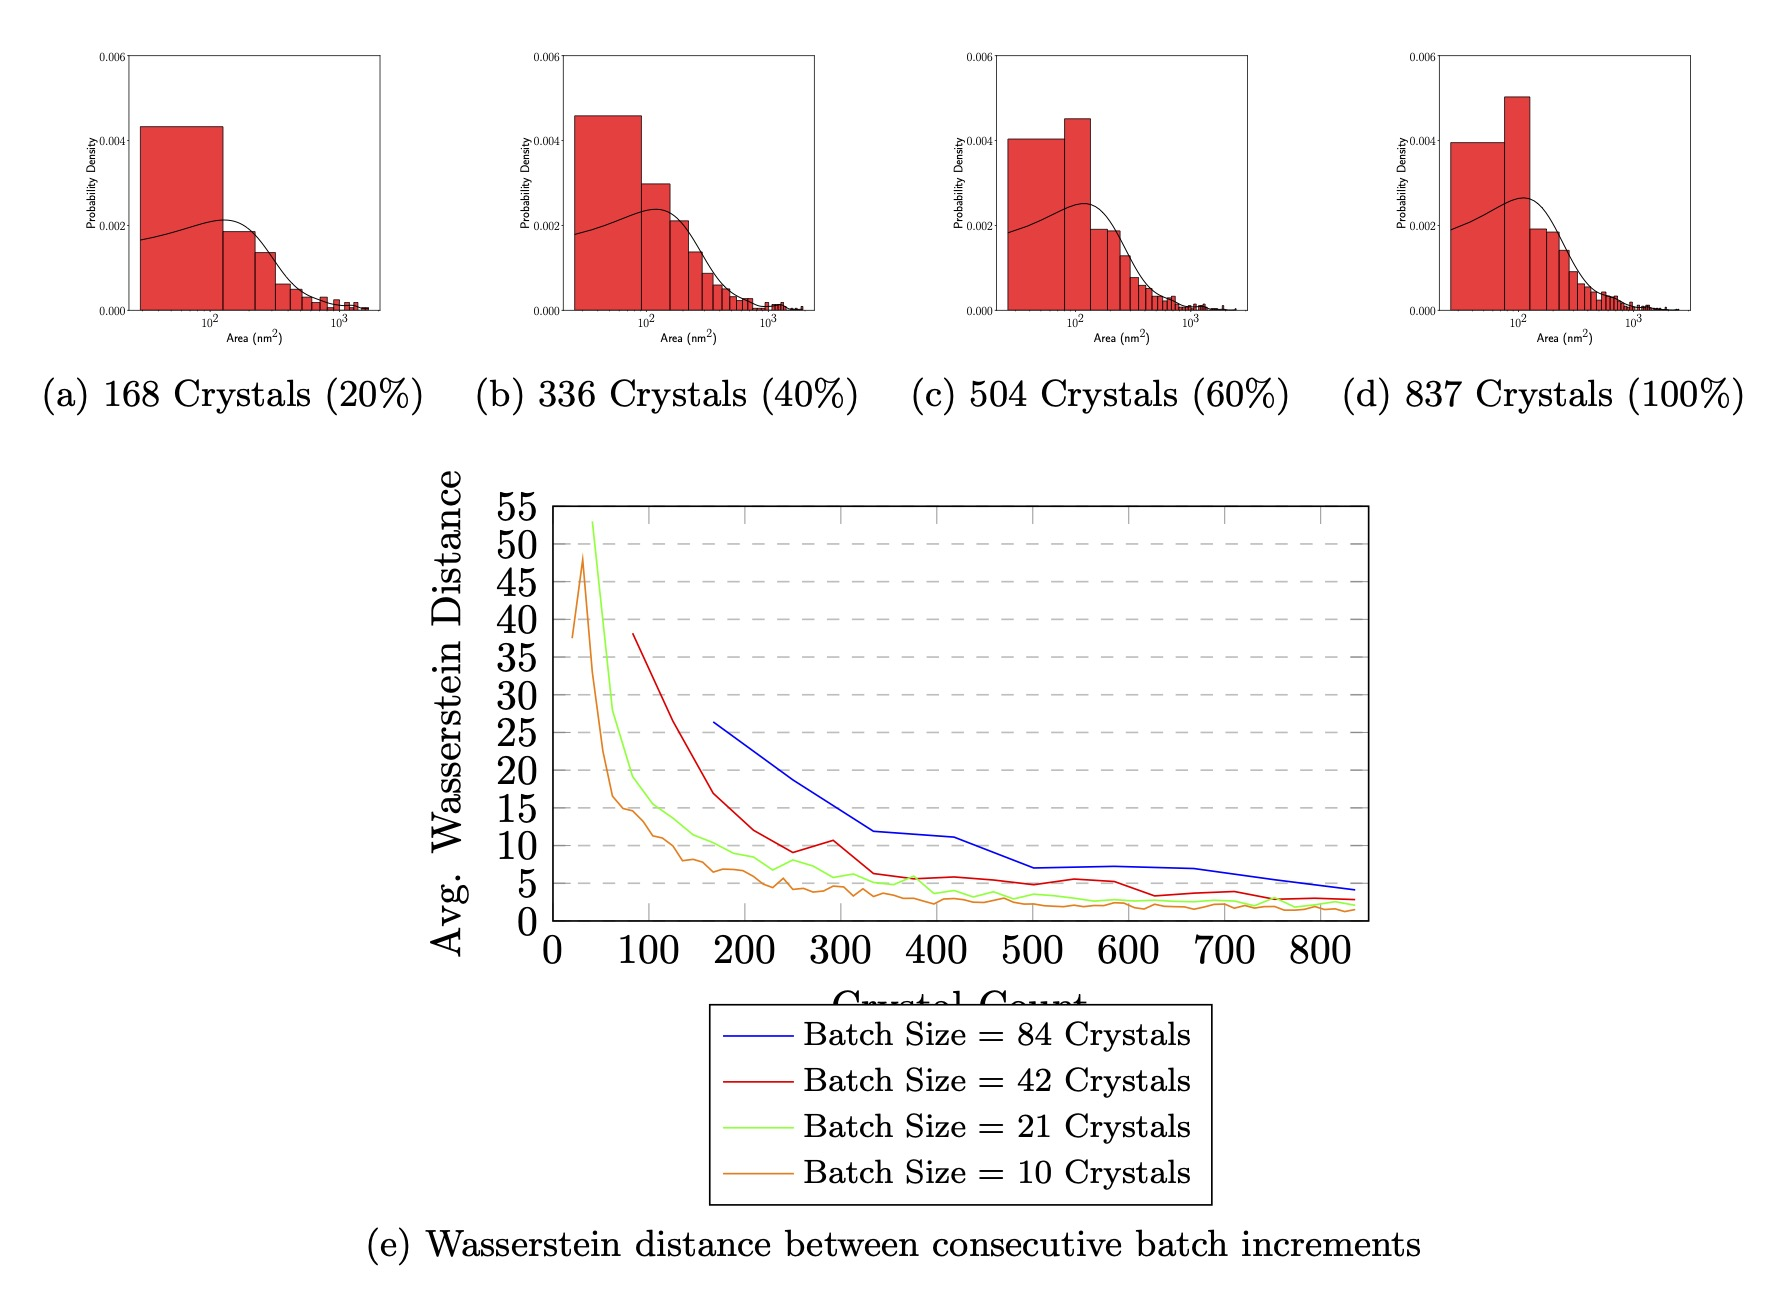
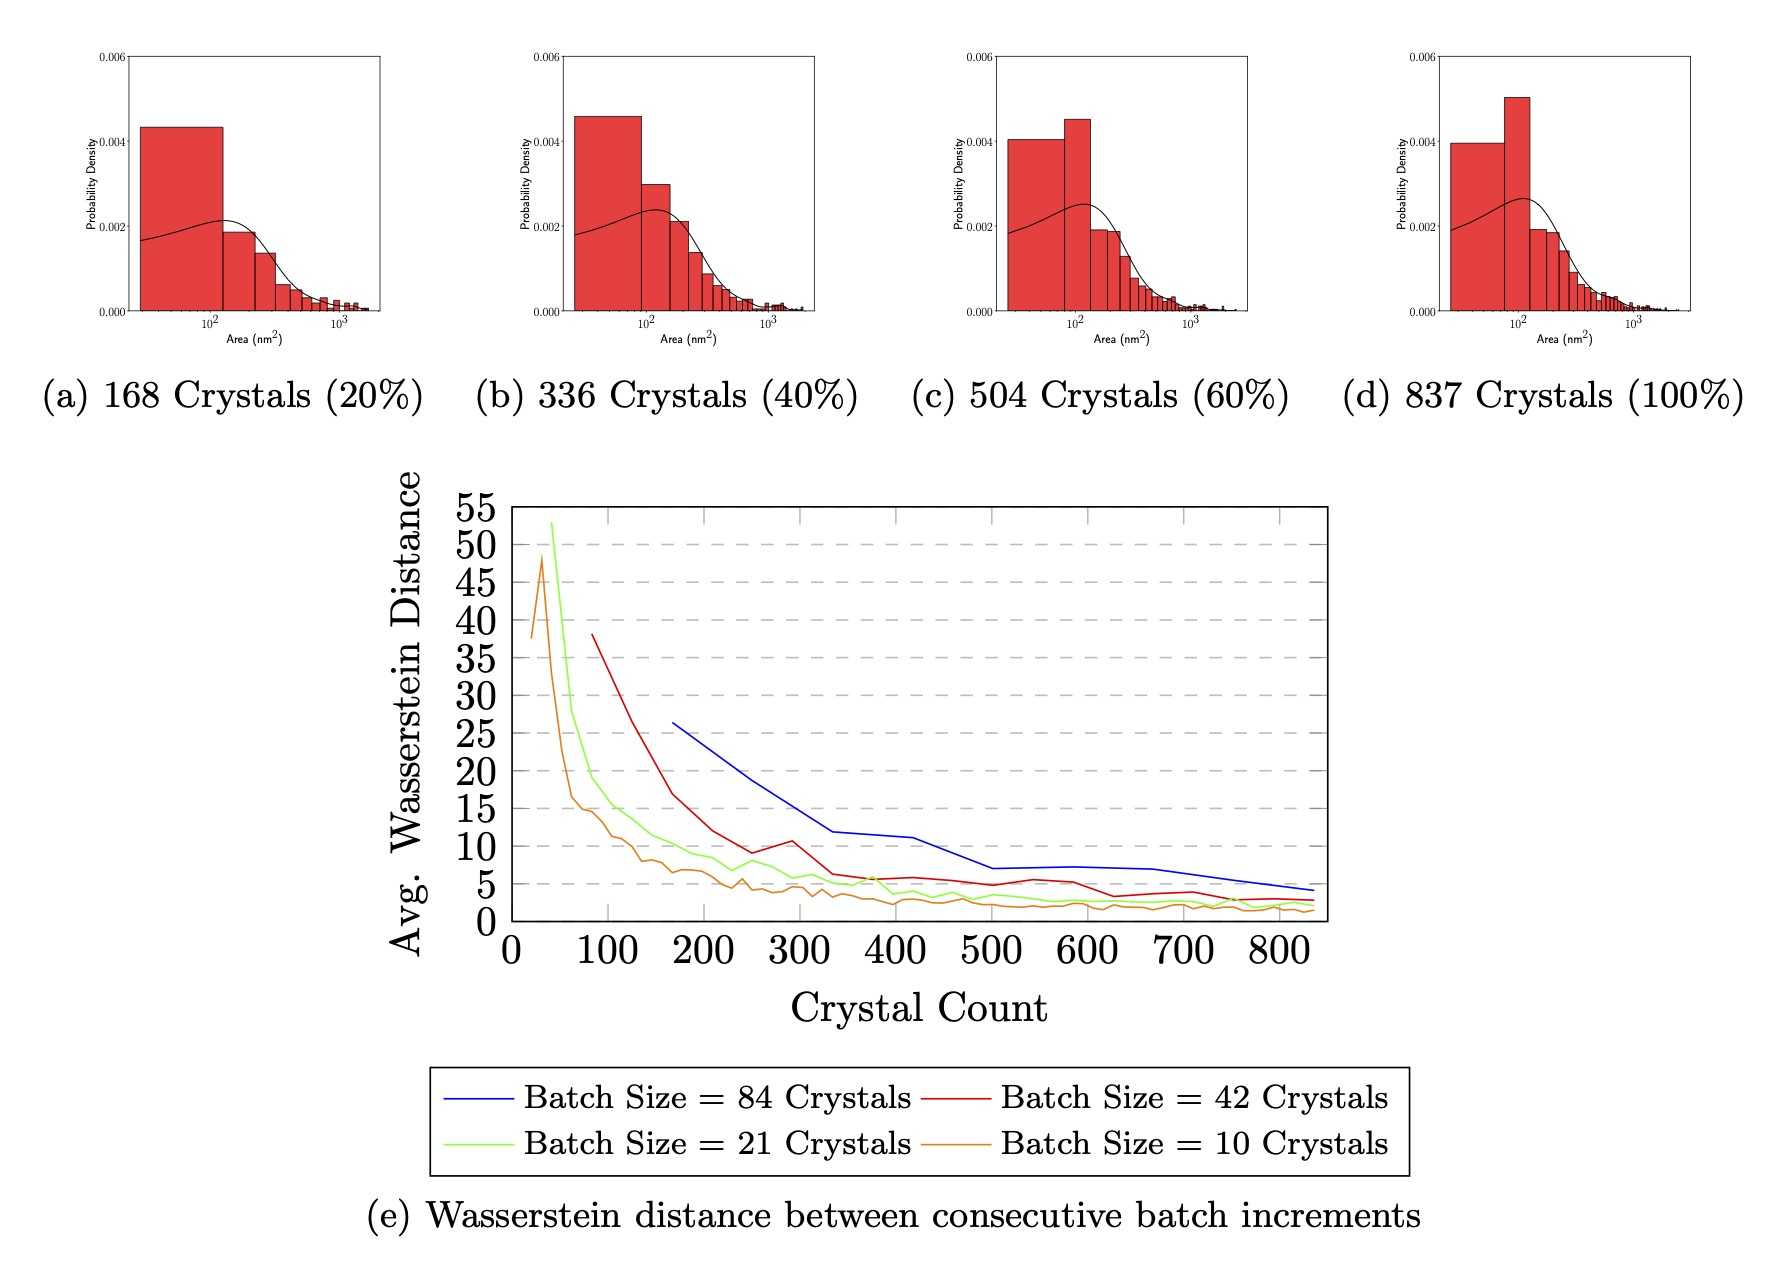
Update figure captions in index.html for clarity and accuracy; replace fig14_dataSuff.jpg with an updated version

Changed region(s): [[0.2154, 0.3741, 0.8002, 0.9665], [0.277, 0.0935, 0.9849, 0.3429], [0.0308, 0.0935, 0.2462, 0.3118]]

diff --git a/index.html b/index.html
@@ -495,28 +495,28 @@
       <div class="figure-slide">
         <img src="./static/images/fig1_overviewFramework.jpg" alt="Framework Overview">
         <p class="figure-caption">
-          <strong>Figure 1:</strong> Illustration of the proposed voxel-based, octree-enabled FEM framework for real-time 3D-printing simulations. Starting from a standard G-code model (left), the part is converted into a voxel representation where each newly deposited voxel (green) expands the active region. An octree mesh (center) then refines or coarsens elements based on print progression, enabling efficient assembly and solution of the evolving thermal problem. Finally, the simulation iterates this deposition-and-solve process until the full 3D object (right) is printed.
+          <strong>Figure 1:</strong> Schematic overview of the GRATEv2 computational framework. The overall computational framework of GRATEv2.
         </p>
       </div>
 
       <div class="figure-slide">
-        <img src="./static/images/fig1_BOpt_details.jpg" alt="Voxel Printing Order">
+        <img src="./static/images/fig1_BOpt_details.jpg" alt="Bayesian Optimization Details">
         <p class="figure-caption">
-          <strong>Figure 2:</strong> Voxel-by-voxel printing order for the cube and Stanford bunny geometry. The figure shows the 3D printing of the voxel geometry. The red voxels are the ones that have been printed recently, gray voxels are the ones that have been printed previously, and the white voxels are the ones that are yet to be printed. Orange arrow shows the contour print direction and the yellow arrow shows the infill print direction.
+          <strong>Figure 2:</strong> The detailed Bayesian Optimization (BO) component used for parameter tuning. The BO framework iteratively suggests parameter sets based on previous evaluations, optimizing the performance of the GRATEv2 image analysis pipeline. This process minimizes manual intervention and enhances the robustness of the analysis across diverse datasets.
         </p>
       </div>
 
       <div class="figure-slide">
-        <img src="./static/images/fig3_IP_algo.jpg" alt="Voxel Mesh Slices">
+        <img src="./static/images/fig3_IP_algo.jpg" alt="Algorithm Flowchart with Parameters">
         <p class="figure-caption">
-          <strong>Figure 3:</strong> Voxel-based geometry, octree mesh, and 2D slices at three stages of the build for both a cube (left) and the Stanford Bunny (right). From top to bottom, each row represents an increasingly complete print. The left column in each block shows the voxel geometry at the given time, the center column shows the corresponding octree mesh (with inactive elements in wireframe), and the right column presents a mesh slice for clarity. This progression illustrates how the geometric representation, meshing strategy, and cross-sectional patterns evolve as additional layers are deposited.
+          <strong>Figure 3:</strong> Algorithm flowchart with parameters. Blue boxes are the process parameters and brown boxes are the intermediate steps shown in the next figure.
         </p>
       </div>
 
       <div class="figure-slide">
-        <img src="./static/images/fig4_intermImgs.jpg" alt="Voxel Deposition Process">
+        <img src="./static/images/fig4_intermImgs.jpg" alt="Intermediate and Final Outputs">
         <p class="figure-caption">
-          <strong>Figure 4:</strong> Illustration of the voxel-based deposition process at two consecutive time steps 𝑡 and 𝑡 + 𝛥𝑡. Existing printed voxels (gray) transfer heat through both conduction (orange arrows) and convection (red arrows). At time 𝑡+𝛥𝑡, a newly filled voxel (red) is added, expanding the active region in which heat is solved. The build plate (blue) is held at a prescribed temperature boundary condition. This schematic highlights how voxel activation, heat conduction, and convection boundaries are dynamically updated throughout the printing process.
+          <strong>Figure 4:</strong> Intermediate and final outputs of the pipeline (see the flowchart in previous figure). (a) Input: initial morphology. (b) Step 1 —Otsu thresholding (corresponds to orange callout 1 in previous figure). (c) Step 2 — skeletonization and branching (callout 2). (d) Step 3 —filtering short backbones and division into uniform bones (callout 3). (e) Step 4 — aspect-ratio filtering of ellipses (callout 4). (f) Step 5 — clustering of adjacent bones (callout 5). (g) Output: detected crystal region with boundary/principal-direction overlay.
         </p>
       </div>
 
@@ -542,23 +542,23 @@
     
     <div class="results-carousel">
       <div class="result-slide">
-        <img src="./static/images/fig9_results.jpg" alt="Experimental Comparison">
+        <img src="./static/images/fig9_results.jpg" alt="Comparison of Detection Methods">
         <p class="figure-caption">
-          <strong>Figure 5:</strong> (a) Temperature vs. time for ABS: our three voxel resolutions (5 mm, 3 mm, 2.5 mm) versus the experiment and simulation curves from lepoivre2020heat and nagaraj2023novel. (b) Temperature vs. time for PEKK under the same conditions. (c) Single filament wall geometry (60 mm × 51.2 mm). The thickness is 1.25 mm for ABS and 2.2 mm for PEKK; the red dot marks the temperature probe location at (30 mm, 0 mm, 4.4 mm).
+          <strong>Figure 5:</strong> Comparison of Ground Truth, Manually selected parameter detection, and Bayesian-Optimized parameter detection across three different images. Each column represents a distinct detection method, illustrating how Bayesian optimization enhances segmentation accuracy by more closely matching the ground truth annotations compared to manual parameter tuning. The Bayesian optimization process was conducted over 200 iterations, achieving a minimum loss value of -0.7319 at the 151st evaluation. 
         </p>
       </div>
 
       <div class="result-slide">
-        <img src="./static/images/fig12_featurePlots.jpg" alt="Stanford Bunny Simulation">
+        <img src="./static/images/fig12_featurePlots.jpg" alt="Individual Crystal Analysis">
         <p class="figure-caption">
-          <strong>Figure 6:</strong> Stanford Bunny at three voxel resolutions (32, 64, 128) and at three build completion times (30%, 60%, 100%).
+          <strong>Figure 6:</strong> Individual crystal analysis. The properties of the individually detected crystals are plotted: (a) Crystal area, (b) FFT evaluated d-spacing, (c) Angle difference between crystal's pattern and its major axis, (d) Crystal aspect ratio, and (e) crystal axis lengths. (a) to (d) are histograms with kernel density estimate, and (e) is a scatter plot from analysis of the entire dataset. 
         </p>
       </div>
 
       <div class="result-slide">
-        <img src="./static/images/fig14_dataSuff.jpg" alt="Benchy Simulation">
+        <img src="./static/images/fig14_dataSuff.jpg" alt="Data Sufficiency Analysis">
         <p class="figure-caption">
-          <strong>Figure 7:</strong> Benchy at three voxel resolutions (32, 64, 128) and at three build completion times (30%, 60%, 100%). 
+          <strong>Figure 7:</strong> Data sufficiency for the crystal-area feature. (a-d) Empirical area distributions (histogram + KDE) at cumulative sampling levels of 20% (168 crystals), 40% (336), 60% (504), and 100% (837). (e) Average first-order Wasserstein distance between successive cumulative batches of crystal areas versus crystal count; curves indicate batch sizes: 84 (blue), 42 (red), 21 (green), and 10 (orange). Lower values indicate distributional convergence. 
         </p>
       </div>
 
